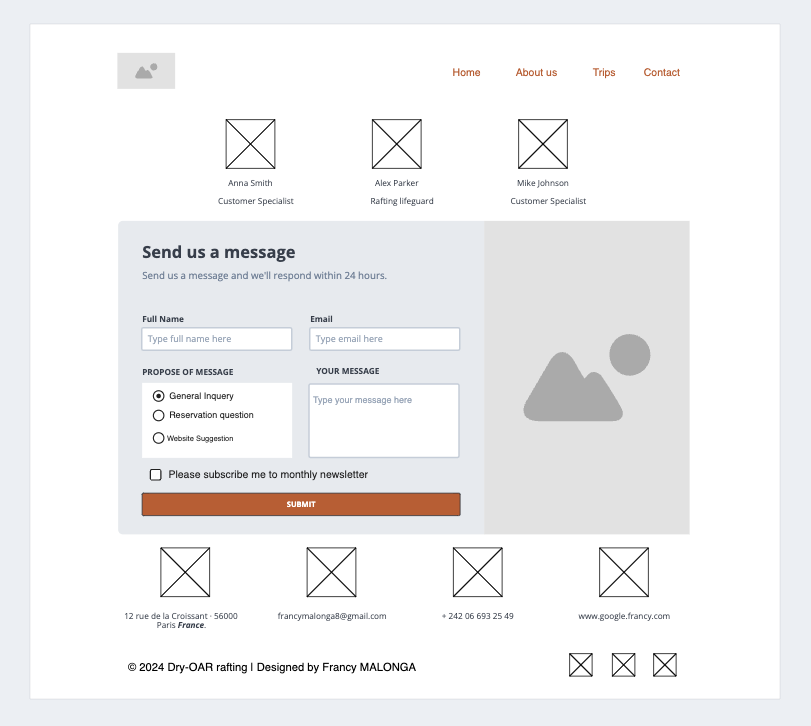
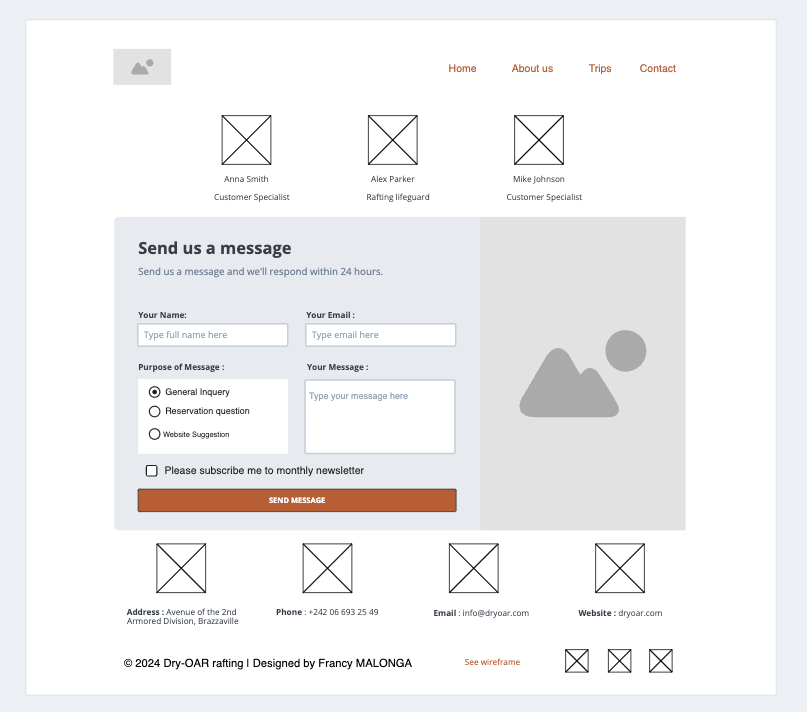
Modified rafting.css to resolve errors

diff --git a/wwr/contact.html b/wwr/contact.html
@@ -152,7 +152,7 @@
                     <div class="text">
                         <p>
                             <span>Phone :</span>
-                            <a href="tel://+242066932549">+ 1235 2355 98</a>
+                            <a href="tel://+242066932549">+242 06 693 2549 </a>
                         </p>
                     </div>
                 </div>
@@ -187,7 +187,7 @@
             &copy; 2024 Dry-OAR rafting | Designed by Francy MALONGA
           
         </p>
-        <a class="wireframe" href="https://app.moqups.com/YewRe0eqZL3oRAaXxpikm61i2jpYoILL/edit/page/a21a6d459" target="_blank">
+        <a class="wireframe" href="images/wireframe-contact-us.png" target="_blank">
             See wireframe
         </a>
         <nav class="sociallinks">

diff --git a/wwr/styles/rafting.css b/wwr/styles/rafting.css
@@ -285,10 +285,11 @@ footer{
     cursor: pointer;
     font-size: 16px;
     width: 100%;
+    transition: .2s ease-in-out 0s;
   }
   input[type="submit"]:hover {
     background-color: #4caf50;
-    translate: 1px;
+    transform: scale(1.05);
   }
   .contact-row,
   .employee-profiles {
